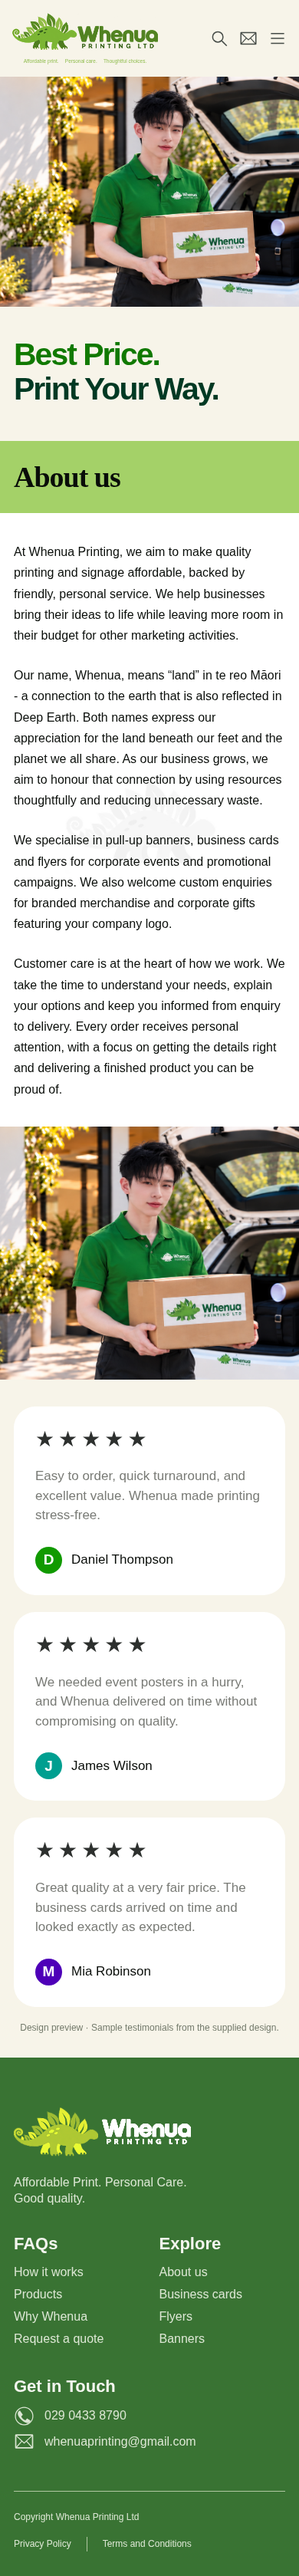
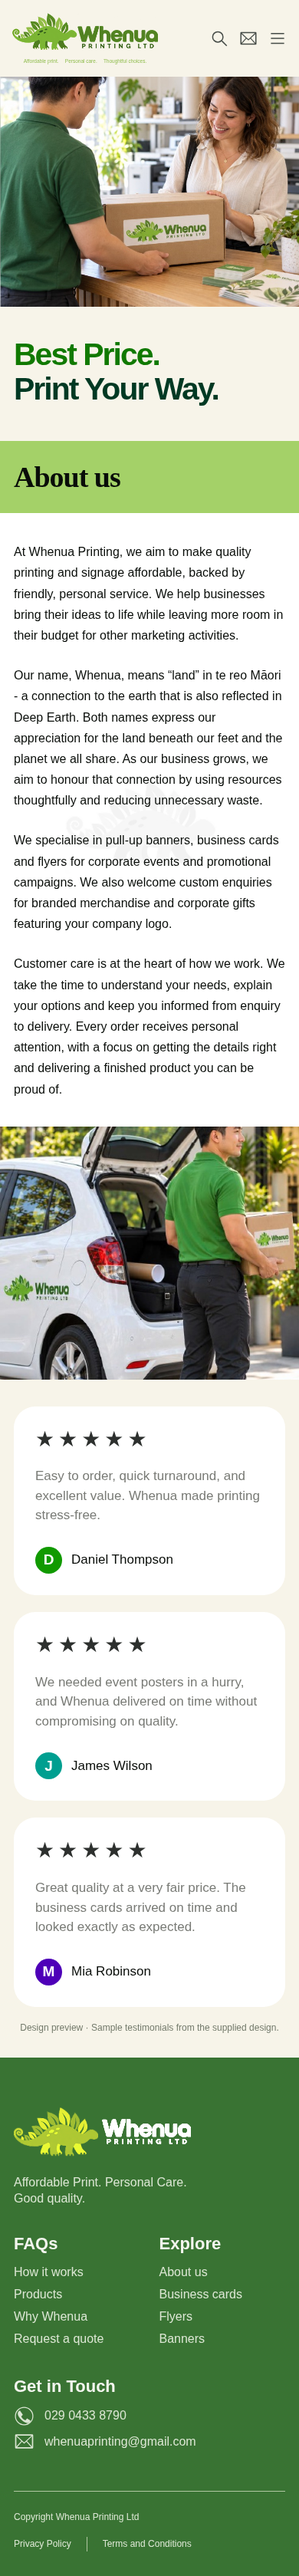
Use original customer service and delivery photos on About us page

Changed region(s): [[0.0, 0.4335, 1.0, 0.5573], [0.0, 0.031, 1.0, 0.1238]]

diff --git a/about.html b/about.html
@@ -1,6 +1,6 @@
 <!doctype html>
-<html lang="en"><head><meta charset="UTF-8"><meta name="viewport" content="width=device-width, initial-scale=1"><title>About Us | Whenua Printing</title><meta name="description" content="Learn about Whenua Printing: affordable printing and signage, friendly personal service, and thoughtful choices from enquiry to delivery."><meta name="theme-color" content="#397333"><link rel="icon" href="assets/Image%20Logo.png"><link rel="stylesheet" href="styles/home.css"><link rel="stylesheet" href="styles/about.css"><script src="scripts/home.js" defer></script></head><body class="about-page"><a class="skip-link" href="#main">Skip to content</a><header class="site-header"><div class="header-inner"><a class="brand-link" href="index.html" aria-label="Whenua Printing home"><div class="logo-crop"><img src="assets/Comb%20Logo.png" alt="Whenua Printing Ltd" width="640" height="238"></div><div class="brand-tagline">Affordable print.　 Personal care.　 Thoughtful choices.</div></a><nav class="desktop-nav" id="siteNav" aria-label="Main navigation"><a href="index.html">Home</a><a href="about.html" aria-current="page">About us</a><a href="index.html#products">Products</a><a href="index.html#how">How it works</a></nav><div class="header-actions"><button class="icon-button" id="searchButton" aria-label="Search products"><svg viewBox="0 0 64 64" aria-hidden="true" focusable="false"><circle cx="27" cy="27" r="18" fill="none" stroke="currentColor" stroke-width="4"/><path d="m41 41 17 17" fill="none" stroke="currentColor" stroke-width="4"/></svg></button><a class="icon-button" href="mailto:whenuaprinting@gmail.com" aria-label="Email Whenua Printing"><svg viewBox="0 0 64 64" aria-hidden="true" focusable="false"><rect x="6" y="12" width="52" height="40" rx="1" fill="none" stroke="currentColor" stroke-width="4"/><path d="m7 14 25 23 25-23M7 51l18-20m32 20L39 31" fill="none" stroke="currentColor" stroke-width="3"/></svg></a><button class="icon-button menu-toggle" id="menuToggle" aria-label="Open navigation" aria-controls="siteNav" aria-expanded="false"><svg viewBox="0 0 64 64" aria-hidden="true" focusable="false"><path d="M9 15h46M9 32h46M9 49h46" fill="none" stroke="currentColor" stroke-width="4"/></svg></button></div></div></header><main id="main"><section class="about-hero" aria-labelledby="aboutHeroTitle"><div class="about-hero-photo"><img src="assets/hero.jpg" alt="Whenua Printing team member preparing a branded delivery" width="2100" height="749" fetchpriority="high"></div><div class="about-hero-heading"><h1 id="aboutHeroTitle"><span>Best Price.</span><br>Print Your Way.</h1></div></section>
-<section class="story-section" aria-labelledby="storyTitle"><div class="story-heading"><h2 id="storyTitle">About us</h2></div><div class="story-copy"><img class="story-watermark" src="assets/Image%20Logo.png" alt="" aria-hidden="true" width="300" height="300"><div class="story-text"><p>At Whenua Printing, we aim to make quality printing and signage affordable, backed by friendly, personal service. We help businesses bring their ideas to life while leaving more room in their budget for other marketing activities.</p><p>Our name, Whenua, means “land” in te reo Māori - a connection to the earth that is also reflected in Deep Earth. Both names express our appreciation for the land beneath our feet and the planet we all share. As our business grows, we aim to honour that connection by using resources thoughtfully and reducing unnecessary waste.</p><p>We specialise in pull-up banners, business cards and flyers for corporate events and promotional campaigns. We also welcome custom enquiries for branded merchandise and corporate gifts featuring your company logo.</p><p>Customer care is at the heart of how we work. We take the time to understand your needs, explain your options and keep you informed from enquiry to delivery. Every order receives personal attention, with a focus on getting the details right and delivering a finished product you can be proud of.</p></div></div><div class="story-photo"><img src="assets/hero.jpg" alt="Whenua Printing delivery car and team member" loading="lazy" width="2100" height="749"></div></section>
+<html lang="en"><head><meta charset="UTF-8"><meta name="viewport" content="width=device-width, initial-scale=1"><title>About Us | Whenua Printing</title><meta name="description" content="Learn about Whenua Printing: affordable printing and signage, friendly personal service, and thoughtful choices from enquiry to delivery."><meta name="theme-color" content="#397333"><link rel="icon" href="assets/Image%20Logo.png"><link rel="stylesheet" href="styles/home.css"><link rel="stylesheet" href="styles/about.css"><script src="scripts/home.js" defer></script></head><body class="about-page"><a class="skip-link" href="#main">Skip to content</a><header class="site-header"><div class="header-inner"><a class="brand-link" href="index.html" aria-label="Whenua Printing home"><div class="logo-crop"><img src="assets/Comb%20Logo.png" alt="Whenua Printing Ltd" width="640" height="238"></div><div class="brand-tagline">Affordable print.　 Personal care.　 Thoughtful choices.</div></a><nav class="desktop-nav" id="siteNav" aria-label="Main navigation"><a href="index.html">Home</a><a href="about.html" aria-current="page">About us</a><a href="index.html#products">Products</a><a href="index.html#how">How it works</a></nav><div class="header-actions"><button class="icon-button" id="searchButton" aria-label="Search products"><svg viewBox="0 0 64 64" aria-hidden="true" focusable="false"><circle cx="27" cy="27" r="18" fill="none" stroke="currentColor" stroke-width="4"/><path d="m41 41 17 17" fill="none" stroke="currentColor" stroke-width="4"/></svg></button><a class="icon-button" href="mailto:whenuaprinting@gmail.com" aria-label="Email Whenua Printing"><svg viewBox="0 0 64 64" aria-hidden="true" focusable="false"><rect x="6" y="12" width="52" height="40" rx="1" fill="none" stroke="currentColor" stroke-width="4"/><path d="m7 14 25 23 25-23M7 51l18-20m32 20L39 31" fill="none" stroke="currentColor" stroke-width="3"/></svg></a><button class="icon-button menu-toggle" id="menuToggle" aria-label="Open navigation" aria-controls="siteNav" aria-expanded="false"><svg viewBox="0 0 64 64" aria-hidden="true" focusable="false"><path d="M9 15h46M9 32h46M9 49h46" fill="none" stroke="currentColor" stroke-width="4"/></svg></button></div></div></header><main id="main"><section class="about-hero" aria-labelledby="aboutHeroTitle"><div class="about-hero-photo"><img src="assets/about-service.jpg" alt="Whenua Printing team member delivering a branded box to a customer in store" width="751" height="755" fetchpriority="high"></div><div class="about-hero-heading"><h1 id="aboutHeroTitle"><span>Best Price.</span><br>Print Your Way.</h1></div></section>
+<section class="story-section" aria-labelledby="storyTitle"><div class="story-heading"><h2 id="storyTitle">About us</h2></div><div class="story-copy"><img class="story-watermark" src="assets/Image%20Logo.png" alt="" aria-hidden="true" width="300" height="300"><div class="story-text"><p>At Whenua Printing, we aim to make quality printing and signage affordable, backed by friendly, personal service. We help businesses bring their ideas to life while leaving more room in their budget for other marketing activities.</p><p>Our name, Whenua, means “land” in te reo Māori - a connection to the earth that is also reflected in Deep Earth. Both names express our appreciation for the land beneath our feet and the planet we all share. As our business grows, we aim to honour that connection by using resources thoughtfully and reducing unnecessary waste.</p><p>We specialise in pull-up banners, business cards and flyers for corporate events and promotional campaigns. We also welcome custom enquiries for branded merchandise and corporate gifts featuring your company logo.</p><p>Customer care is at the heart of how we work. We take the time to understand your needs, explain your options and keep you informed from enquiry to delivery. Every order receives personal attention, with a focus on getting the details right and delivering a finished product you can be proud of.</p></div></div><div class="story-photo"><img src="assets/about-delivery.jpg" alt="Whenua Printing team member carrying a box beside the branded delivery car" width="491" height="979" loading="lazy"></div></section>
 <section class="reviews-section" aria-label="Customer review design preview"><div class="reviews-grid"><figure class="review-card"><div class="review-stars" aria-label="5 out of 5 stars">★★★★★</div><blockquote>Easy to order, quick turnaround, and excellent value. Whenua made printing stress-free.</blockquote><figcaption><span class="review-avatar green" aria-hidden="true">D</span><span>Daniel Thompson</span></figcaption></figure><figure class="review-card"><div class="review-stars" aria-label="5 out of 5 stars">★★★★★</div><blockquote>We needed event posters in a hurry, and Whenua delivered on time without compromising on quality.</blockquote><figcaption><span class="review-avatar teal" aria-hidden="true">J</span><span>James Wilson</span></figcaption></figure><figure class="review-card"><div class="review-stars" aria-label="5 out of 5 stars">★★★★★</div><blockquote>Great quality at a very fair price. The business cards arrived on time and looked exactly as expected.</blockquote><figcaption><span class="review-avatar purple" aria-hidden="true">M</span><span>Mia Robinson</span></figcaption></figure></div><p class="reviews-note">Design preview · Sample testimonials from the supplied design.</p></section></main><footer class="site-footer"><div class="container"><div class="footer-grid"><div class="footer-brand-column"><a class="footer-brand" href="index.html" aria-label="Whenua Printing home"><span class="footer-dino"><img src="assets/Image%20Logo.png" alt="" width="300" height="300"></span><span class="footer-wordmark"><img src="assets/Text%20Logo.png" alt="Whenua Printing Ltd" width="300" height="300"></span></a><p>Affordable Print. Personal Care.<br>Good quality.</p></div><div class="footer-column"><h3>FAQs</h3><a href="index.html#how">How it works</a><a href="index.html#products">Products</a><a href="index.html#why">Why Whenua</a><a href="index.html#quote">Request a quote</a></div><div class="footer-column"><h3>Explore</h3><a href="about.html">About us</a><a href="business-cards.html">Business cards</a><a href="flyers.html">Flyers</a><a href="pull-up-banners.html">Banners</a></div><div class="footer-column footer-contact"><h3>Get in Touch</h3><a class="contact-link" href="tel:02904338790"><svg viewBox="0 0 64 64" aria-hidden="true" focusable="false"><circle cx="32" cy="32" r="27" fill="none" stroke="currentColor" stroke-width="3"/><path d="M19 15l9 13-5 5c4 7 7 10 13 12l5-6 11 7c-3 13-17 8-28-2C10 31 9 19 19 15" fill="currentColor"/></svg><span>029 0433 8790</span></a><a class="contact-link" href="mailto:whenuaprinting@gmail.com"><svg viewBox="0 0 64 64" aria-hidden="true" focusable="false"><rect x="6" y="12" width="52" height="40" rx="1" fill="none" stroke="currentColor" stroke-width="4"/><path d="m7 14 25 23 25-23M7 51l18-20m32 20L39 31" fill="none" stroke="currentColor" stroke-width="3"/></svg><span>whenuaprinting@gmail.com</span></a></div></div><div class="legal"><span>Copyright Whenua Printing Ltd</span><div class="legal-links"><span>Privacy Policy</span><span>Terms and Conditions</span></div></div></div></footer><dialog id="quoteDialog" aria-labelledby="quoteTitle"><button class="dialog-close" type="button" data-close aria-label="Close enquiry">×</button><h2 id="quoteTitle">Tell us what you need.</h2><p>Fill in your project details to prepare an email enquiry. Send it from your email app to complete your request.</p><form id="quoteForm"><div class="form-field"><label for="name">Your name</label><input id="name" name="name" autocomplete="name" required maxlength="150"></div><div class="form-field"><label for="email">Your email</label><input id="email" name="email" type="email" autocomplete="email" required maxlength="254"></div><div class="form-field"><label for="phone">Phone (optional)</label><input id="phone" name="phone" type="tel" autocomplete="tel" maxlength="50"></div><div class="form-field"><label for="product">Product</label><select id="product" name="product"><option>Business Cards</option><option>Flyers</option><option>Pull up Banners</option><option>Posters</option><option>Name badges</option><option>Something else</option></select></div><div class="form-field"><label for="quantity">Quantity</label><input id="quantity" name="quantity" type="number" min="1" max="1000000" step="1" required></div><div class="form-field"><label for="details">Project details</label><textarea id="details" name="details" placeholder="Size, finish, preferred delivery date, or any questions" required maxlength="5000"></textarea></div><div class="enquiry-actions"><button class="button" type="submit">Open email enquiry</button><button class="button button-secondary" type="button" id="copyEnquiry">Copy enquiry</button></div><p id="emailStatus" role="status"></p><div id="enquiryFallback" hidden><label for="enquiryText">Copy this message and email it to <a href="mailto:whenuaprinting@gmail.com">whenuaprinting@gmail.com</a></label><textarea id="enquiryText" readonly></textarea></div></form></dialog>
 <dialog id="searchDialog" aria-labelledby="searchTitle"><button class="dialog-close" type="button" data-close aria-label="Close search">×</button><h2 id="searchTitle">Find your print.</h2><div class="form-field"><label for="searchInput">Search products</label><input id="searchInput" type="search" placeholder="Business cards, flyers, posters…" autocomplete="off"></div><ul class="search-results" id="searchResults" aria-label="Matching products"></ul><p id="searchStatus" role="status"></p></dialog>
 </body></html>

diff --git a/styles/about.css b/styles/about.css
@@ -3,3 +3,6 @@
 @media(max-width:1024px){.about-page .header-inner{min-height:120px}.about-hero{min-height:490px}.about-hero h1{font-size:48px;letter-spacing:-2px}.about-hero-heading{padding:35px 25px}.story-section{grid-template-columns:.7fr 2fr .9fr;min-height:570px}.story-copy{padding:30px}.story-copy p{font-size:14px;line-height:1.6;margin:10px 0 22px}.story-heading h2{font-size:48px}.reviews-section{padding:42px 25px 30px}.reviews-grid{gap:22px}.review-card{padding:30px 25px;min-height:270px}.review-stars{font-size:25px;letter-spacing:4px}.review-card blockquote,.review-card figcaption{font-size:16px}.review-card figcaption{gap:12px}.review-avatar{width:32px;height:32px;font-size:19px}}
 @media(max-width:760px){.about-page .header-inner{min-height:100px}.about-hero{min-height:0;grid-template-columns:1fr}.about-hero-photo{height:360px}.about-hero-photo img{object-position:63% 45%}.about-hero-heading{padding:40px 24px 45px;justify-content:flex-start}.about-hero h1{font-size:clamp(43px,8vw,62px);line-height:1.1;margin:0}.story-section{grid-template-columns:1fr;min-height:0}.story-heading{padding:28px 24px;justify-content:flex-start}.story-heading h2{font-size:42px;writing-mode:horizontal-tb;transform:none}.story-copy{padding:25px 24px 35px}.story-copy p{font-size:16px;line-height:1.7;margin:12px 0 25px}.story-photo{height:330px}.story-photo img{object-position:65% 55%}.story-watermark{top:30%;width:90%;left:5%}.reviews-section{padding:35px 24px 30px}.reviews-grid{grid-template-columns:1fr;gap:22px;max-width:540px}.review-card{padding:30px 32px;min-height:245px;border-radius:28px}.review-stars{font-size:28px;letter-spacing:5px}.review-card blockquote,.review-card figcaption{font-size:18px}.review-card blockquote{margin:20px 0 28px}.review-avatar{width:35px;height:35px}.reviews-note{line-height:1.5}.about-page .site-footer{padding-top:55px}}
 @media(max-width:390px){.about-hero-photo{height:300px}.about-hero-heading{padding-inline:18px}.about-hero h1{font-size:41px}.story-heading,.story-copy{padding-inline:18px}.story-heading h2{font-size:38px}.reviews-section{padding-inline:18px}.review-card{padding:28px}.review-card blockquote,.review-card figcaption{font-size:17px}}
+
+/* Original About us photographs: keep the customer and delivery visible. */
+.about-hero-photo img{object-position:center center}.story-photo img{object-position:center center}

diff --git a/README.md b/README.md
@@ -44,4 +44,4 @@ Flyer prices: A5 500/$89, 1000/$139, 2000/$288; A4 500/$134, 1000/$230, 2000/$53
 
 `about.html` implements the supplied About us layout with the split hero, vertical heading, four story paragraphs, logo watermark and three review cards. It is linked from every page and included in the deployment workflow. Styles are in `styles/about.css`.
 
-The two reference photographs have not been uploaded; the page currently uses crops of the original delivery banner. Review cards are explicitly labelled as sample testimonials from the supplied design pending confirmation of authentic customer feedback.
+The original About us photographs are connected: `assets/about-service.jpg` for the customer handover and `assets/about-delivery.jpg` for the delivery section. Review cards are explicitly labelled as sample testimonials from the supplied design pending confirmation of authentic customer feedback.
